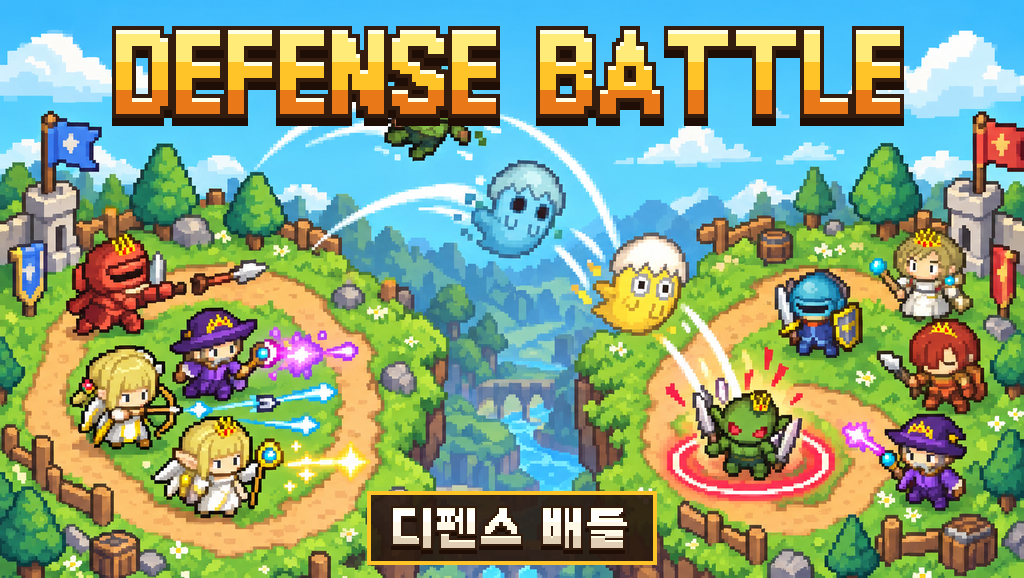
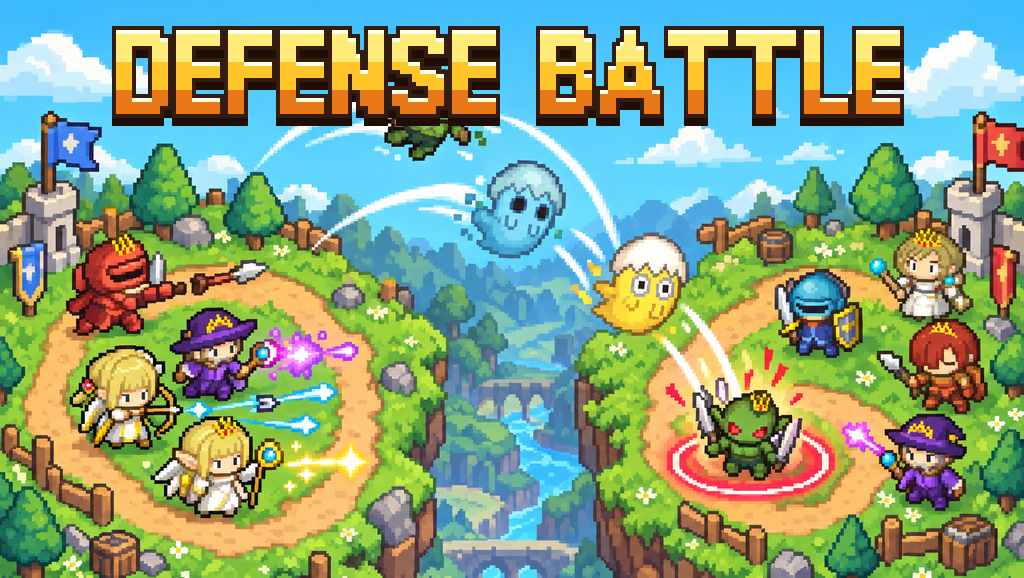
Store graphic: drop the Korean name plate at the bottom

Changed region(s): [[0.3438, 0.8408, 0.6562, 0.9965]]

diff --git a/tools/store_logo.py b/tools/store_logo.py
@@ -114,18 +114,12 @@ if __name__ == '__main__':
         p = STORE / 'thumbnail.jpg'
         out.save(p, quality=92, optimize=True)
         print(p, p.stat().st_size)
-        # 그래픽(1024x578)도 같은 픽셀 글자로: 위 가운데 영문, 아래 가운데 한글 판
+        # 그래픽(1024x578)도 같은 픽셀 글자로: 위 가운데 영문만 (썸네일과 같게 한글 판은 없음)
         g = Image.open(STORE / 'graphic_raw.png').convert('RGB')
         h = round(g.width * 578 / 1024)
         g = g.crop((0, 20, g.width, 20 + h)).resize((1024, 578), Image.LANCZOS).convert('RGBA')
         word = fit_word(NAME_EN, 1024 - 120, 4)
         g.alpha_composite(word, ((1024 - word.width) // 2, 18))
-        kr = pixel_word(NAME_KR, 22, 2, top=(255, 255, 255), mid=(255, 248, 230), low=(225, 208, 182))
-        by = 578 - kr.height - 22
-        plate = Image.new('RGBA', (kr.width + 40, kr.height + 18), (0, 0, 0, 0))
-        ImageDraw.Draw(plate).rectangle((0, 0, plate.width - 1, plate.height - 1), fill=(42, 26, 16, 235), outline=(255, 196, 40, 255), width=4)
-        g.alpha_composite(plate, ((1024 - plate.width) // 2, by - 9))
-        g.alpha_composite(kr, ((1024 - kr.width) // 2, by))
         gp = STORE / 'graphic_1024x578.png'
         g.convert('RGB').save(gp, optimize=True)
         print(gp, gp.stat().st_size)
